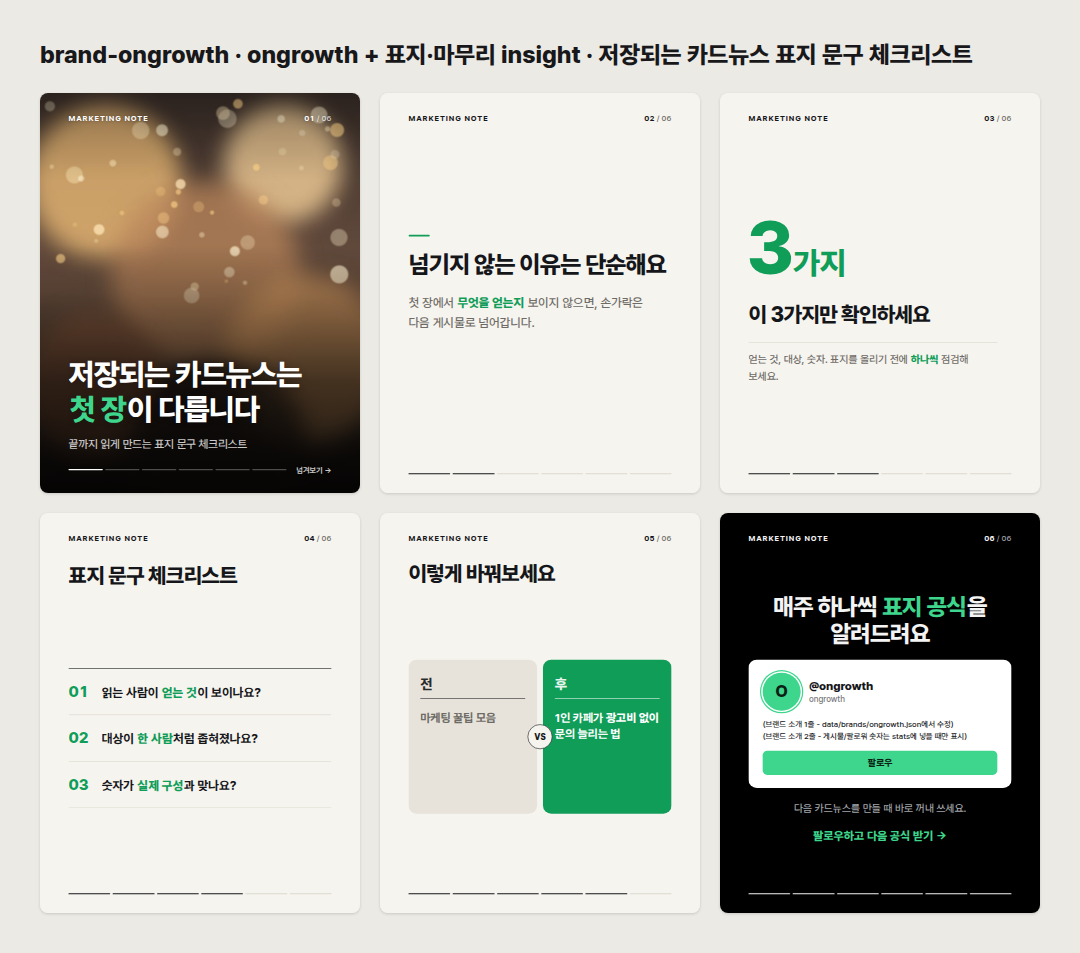
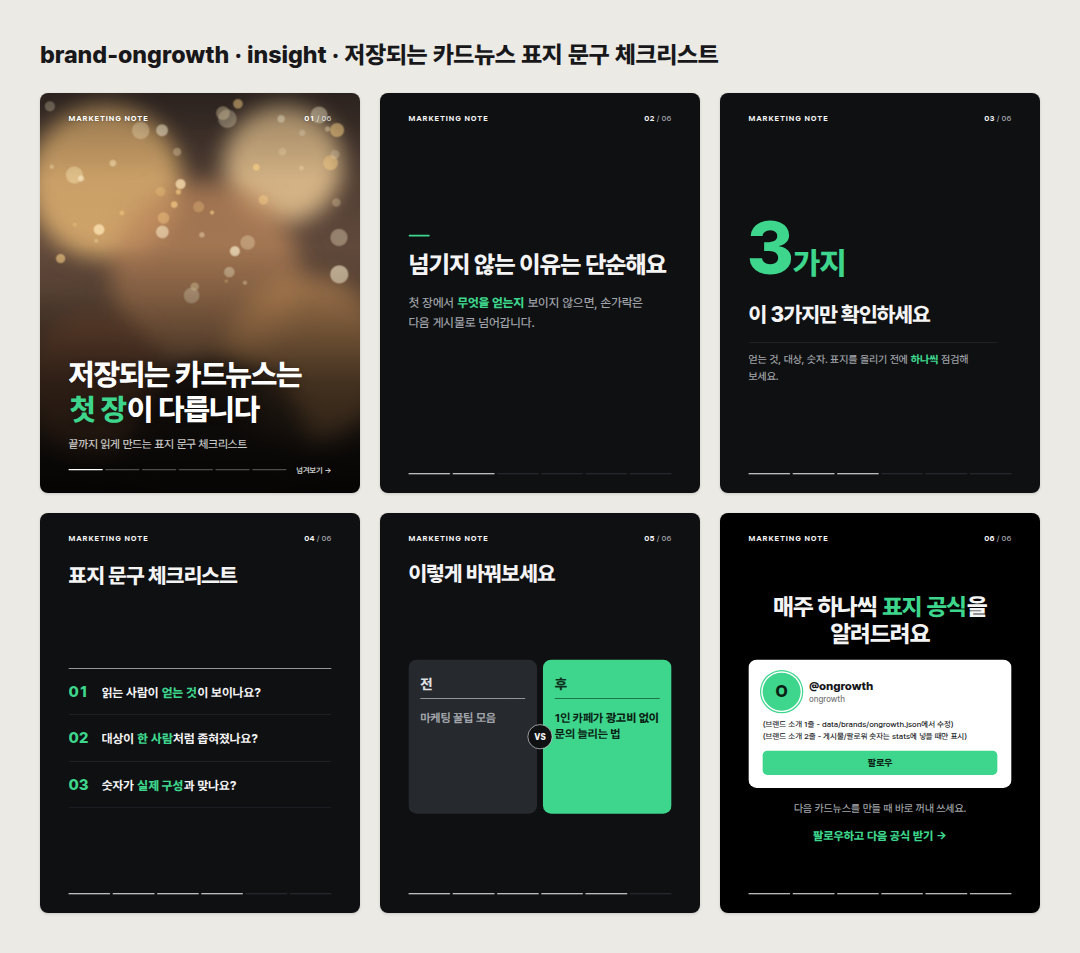
온그로스 디자인을 insight(검정+초록) 전 페이지로 변경, 혼합용 ongrowth 테마 제거
- 사용자가 고른 것은 2번 insight 디자인 (혼합 버전은 잘못 이해해서 만든 것)
- coverTheme 기능은 다른 계정용으로 유지, 브랜드 폴더 경로를 호출 시점에 계산

Claude-Session: https://claude.ai/code/session_01AW918qkMwuH1UBhyEYAxys

diff --git a/src/design/design.test.ts b/src/design/design.test.ts
@@ -50,7 +50,7 @@ const tests: [string, () => void | Promise<void>][] = [
     assert.equal(resolveTheme("marketing").theme.name, "default");
     assert.equal(resolveTheme("stay").theme.name, "life");
     assert.equal(resolveTheme("beauty").fallback, true);
-    for (const t of ["insight", "life", "campaign", "ongrowth"]) assert.equal(resolveTheme(t).theme.name, t);
+    for (const t of ["insight", "life", "campaign"]) assert.equal(resolveTheme(t).theme.name, t);
     const beauty = extendTheme(defaultTheme, { name: "beauty", color: { accent: "#C2185B" } });
     assert.equal(beauty.color.accent, "#C2185B");
     assert.equal(beauty.color.background, defaultTheme.color.background);
@@ -113,7 +113,7 @@ const tests: [string, () => void | Promise<void>][] = [
     assert.ok(!html.includes('class="cn-stats"'), "stats가 없으면 게시물/팔로워 숫자를 표시하지 않음");
   }],
   ["테마 4종 × 체험 원고: 모두 1080x1350, overflow 없음", async () => {
-    for (const t of ["default", "insight", "life", "campaign", "ongrowth"]) {
+    for (const t of ["default", "insight", "life", "campaign"]) {
       const res = await renderPngs(renderContent(master("CN-20261001-001"), store.pages, t), tmpDir());
       assert.equal(res.length, 6);
       for (const r of res) {
@@ -122,11 +122,21 @@ const tests: [string, () => void | Promise<void>][] = [
       }
     }
   }],
-  ["계정 설정: ongrowth는 본문 ongrowth + 첫/마지막 장 insight, --theme를 주면 한 가지로", () => {
+  ["계정 설정: ongrowth는 전 페이지 insight, coverTheme가 있으면 첫/마지막 장만 다르게, --theme를 주면 한 가지로", () => {
     const c = renderContent(master("CN-20261001-001"), store.pages);
-    assert.deepEqual(c.cards.map((k) => k.theme.name), ["insight", "ongrowth", "ongrowth", "ongrowth", "ongrowth", "insight"]);
-    assert.equal(c.designLabel, "ongrowth + 표지·마무리 insight");
-    assert.ok(c.cards[1].html.includes("cn-theme-ongrowth"));
+    assert.ok(c.cards.every((k) => k.theme.name === "insight"));
+    assert.equal(c.designLabel, "insight");
+    const tmp = fs.mkdtempSync(path.join(os.tmpdir(), "brand-"));
+    const prev = process.cwd();
+    fs.mkdirSync(path.join(tmp, "data/brands"), { recursive: true });
+    fs.writeFileSync(path.join(tmp, "data/brands/mixbrand.json"), JSON.stringify({ handle: "mixbrand", theme: "default", coverTheme: "insight" }));
+    process.chdir(tmp);
+    try {
+      const mixed = renderContent({ ...master("CN-20261001-001"), brand: "mixbrand" }, store.pages);
+      assert.deepEqual(mixed.cards.map((k) => k.theme.name), ["insight", "default", "default", "default", "default", "insight"]);
+    } finally {
+      process.chdir(prev);
+    }
     const forced = renderContent(master("CN-20261001-001"), store.pages, "life");
     assert.ok(forced.cards.every((k) => k.theme.name === "life"));
   }],

diff --git a/src/design/brand.ts b/src/design/brand.ts
@@ -4,10 +4,13 @@ import fs from "node:fs";
 import path from "node:path";
 import type { BrandProfile } from "./types.js";
 
-export const BRAND_DIR = path.resolve("data/brands");
+/** 실행 위치 기준 data/brands (호출할 때마다 계산) */
+export function brandDir(): string {
+  return path.resolve("data/brands");
+}
 
 export function loadBrand(brand: string): BrandProfile {
-  const file = path.join(BRAND_DIR, `${brand}.json`);
+  const file = path.join(brandDir(), `${brand}.json`);
   const fallback: BrandProfile = { handle: brand };
   if (!fs.existsSync(file)) return fallback;
   const data = JSON.parse(fs.readFileSync(file, "utf8")) as Partial<BrandProfile>;

diff --git a/src/design/themes/index.ts b/src/design/themes/index.ts
@@ -6,7 +6,6 @@ import { defaultTheme } from "./default.js";
 import { insightTheme } from "./insight.js";
 import { lifeTheme } from "./life.js";
 import { campaignTheme } from "./campaign.js";
-import { ongrowthTheme } from "./ongrowth.js";
 export { extendTheme } from "./extend.js";
 
 const THEMES: Record<string, DesignTheme> = {
@@ -15,8 +14,6 @@ const THEMES: Record<string, DesignTheme> = {
   insight: insightTheme,
   life: lifeTheme,
   campaign: campaignTheme,
-  // 계정 전용
-  ongrowth: ongrowthTheme,
   // 분야 → 테마 기본 연결 (브랜드 설정의 theme가 있으면 그게 우선)
   travel: lifeTheme,
   stay: lifeTheme,

diff --git a/src/design/compare.ts b/src/design/compare.ts
@@ -8,7 +8,6 @@ const THEME_LABEL: Record<string, string> = {
   insight: "인사이트 · 검정 + 초록",
   life: "라이프 · 크림 + 갈색 (굵기로 강조)",
   campaign: "캠페인 · 진초록 + 주황 (형광펜 강조)",
-  ongrowth: "온그로스 · 밝은 본문 + 초록",
 };
 
 /** rows: 테마별로 그린 같은 원고 목록 */

diff --git a/docs/design-presets/README.md b/docs/design-presets/README.md
@@ -9,19 +9,18 @@
 | `insight.png` | insight | 검정 + 초록 |
 | `life.png` | life | 크림 + 갈색, 굵기로 강조 |
 | `campaign.png` | campaign | 진초록 표지 + 주황, 형광펜 강조 |
-| `brand-ongrowth.png` | **온그로스 계정 설정** | 본문 밝은 배경 + 초록(ongrowth), 표지·마무리 검정 + 초록(insight) |
-| `brand-ongrowth-mixed-blue.png` | (비교용) | 본문 코발트 + 표지 초록 — 강조색이 두 개라 채택하지 않음 |
+| `brand-ongrowth.png` | **온그로스 계정 설정** | insight (검정 + 초록) 전 페이지 |
 
 ## 계정별 디자인 지정
 
 `data/brands/<계정>.json`
 
 ```json
-{ "handle": "ongrowth", "theme": "ongrowth", "coverTheme": "insight" }
+{ "handle": "ongrowth", "theme": "insight" }
 ```
 
 - `theme`: 본문 카드 디자인
-- `coverTheme`: 첫 장·마지막 장만 다르게 (없으면 본문과 같음)
+- `coverTheme`: (선택) 첫 장·마지막 장만 다른 디자인으로. 예: `"theme": "default", "coverTheme": "insight"`
 
 ## 견본 다시 만들기
 
